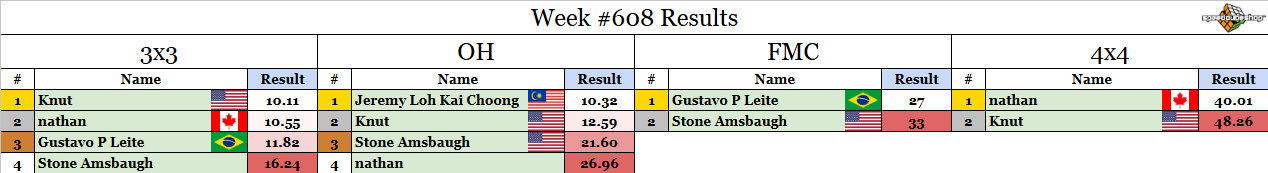
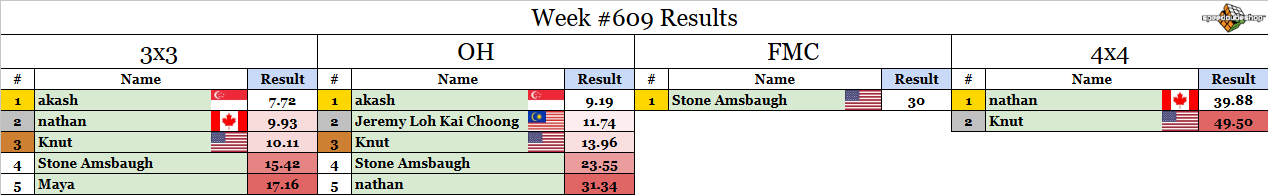
weekly comp update

diff --git a/src/weeklycomp/post.md b/src/weeklycomp/post.md
@@ -1,10 +1,10 @@
-## Weekly Competition #609 
+## Weekly Competition #610 
  
 Sponsored by SpeedCubeShop
 Shop here: [speedcubeshop.com/rouxcomp](https://speedcubeshop.com/rouxcomp)
 Use code ROUX for 5% off
 
-One competitor will be selected at random to receive a $5 SCS gift card! Congrats to last week's winner by a random draw: **Stone Amsbaugh**. DM me for the prize. 
+One competitor will be selected at random to receive a $5 SCS gift card! Congrats to last week's winner by a random draw: **nathan**. DM me for the prize. 
  
 Check whether or not you participated this week yet at [https://bit.ly/RMSWeeklyCompSummary](https://bit.ly/RMSWeeklyCompSummary)  
  
@@ -18,29 +18,29 @@ Check whether or not you participated this week yet at [https://bit.ly/RMSWeekly
  7. The comp runs until Sunday 5pm Eastern time (more or less). Enter your times using the forms links below. 
  
 ### 3x3: [Submission Form](https://forms.gle/H5xoCWvGKnZ92fQt8) 
- 1. U' L' U2 L2 B D2 F U2 F D2 R2 D2 F' L B D U2 B U2 R2 
- 2. B2 D' R2 F2 L' F2 L D2 R B2 R' U2 F2 U R2 F' R2 F' L2 B 
- 3. B R L2 U' L U' F2 D' R' U2 B' U2 D2 R2 D2 F' L2 D2 F B L 
- 4. U F2 D2 B L2 B' U2 R2 F2 U2 F' L2 R B' F' D L2 U' F L D2 
- 5. U' L2 F2 D' R2 F2 U2 L2 U L2 F2 U R F' D2 L F L B' U F 
+ 1. D L2 U' L2 F2 L2 R2 U B2 D' B2 R D2 L' B' L' B' U' B U' R2 
+ 2. L2 D2 B2 R2 B2 L2 R2 U' R2 U2 F L' B2 U' F D' F2 R D' U 
+ 3. U R2 B2 D' L2 U2 F2 L2 F2 L2 D' B U' L' F2 R2 F' L2 D' B R' 
+ 4. B2 L2 D' U' L2 U' R2 B2 D B2 L D' L2 B2 L' D2 L F D 
+ 5. F2 B' L2 F2 U2 D' F2 U R' D2 F' U2 F' R2 B U2 B' L2 B2 D2 
  
 ### OH: [Submission Form](https://forms.gle/UgRLW3K1d5KkMGfM9) 
- 1. F2 U2 F2 D2 L' D2 L2 D2 B2 L D2 R F R' U' B2 D' L' D' R D' 
- 2. R F2 D2 U2 L' D2 L B2 D2 R2 U2 R' B' R' D' F' L B' U' L2 D' 
- 3. L2 R2 U2 B L2 F2 D2 B' U2 L2 B L' D2 R' U F' R2 F' L' F2 U2 
- 4. D' R' D2 B' R2 F' R F U L2 D2 F B2 R2 F' L2 U2 B2 D2 B' U2 
- 5. L' B2 R' B2 U2 R F2 U2 R' B2 L' B R D' L' U L' R2 U2 B 
+ 1. U B' R2 F2 U' L2 R2 D U2 B2 D' B2 R2 D R' D' L2 R B' U2 R 
+ 2. L' U2 L2 F2 L2 F' D2 B' U2 L2 U2 D R' U L B U' R2 
+ 3. U2 F2 R2 U2 F U2 F U2 F' U2 F' L2 U B2 L' D2 F R' B' F' R 
+ 4. B2 R' F2 D2 L U2 L' B2 U2 R U2 L2 D R U2 F' D B U' F U 
+ 5. D F2 U2 D F' R U D2 F U2 F' R2 B R2 D2 F D2 F' R U2 
  
 ### FMC: [Submission Form](https://forms.gle/1P9VUgZmA1pibwvL9) 
- 1. R' U' F B2 D2 B' D2 L2 F2 L2 F2 R2 U2 F D R2 B2 L F' D R U' B' R' U' F 
+ 1. R' U' F B2 R' D R2 U B' R F' R' U2 L2 B' U2 F2 D2 B D2 F' D2 R2 F R' U' F 
  
 ### 4x4: [Submission Form](https://forms.gle/bHNjncvEcPvFWBP2A) 
- 1. D' F D2 L2 B2 U2 R2 F2 R F2 B2 R2 U2 D' F2 U' D2 R' F' R Fw2 Rw2 Uw2 F L' Uw2 L2 F' B2 R2 Fw2 L Rw2 Uw B R U' B Fw Uw' Fw U' B' Fw' R L' 
- 2. B2 L F' U F2 D B2 R' U L' F2 U2 F2 L U2 F2 L D2 B2 R2 D2 Uw2 B' Rw2 F' R2 D' F R2 D' F Uw2 Fw2 Rw B2 L' D' Rw' D Rw B' L' Fw R Uw L Uw2 
- 3. U' F U2 F2 U' F2 L2 B2 R2 B2 U' L2 D2 B2 R' U' R2 L' U' R' L2 Rw2 F Fw2 Uw2 B2 R F D2 R' Uw2 L2 B Fw2 Uw R Fw2 L' U Rw D Fw U Fw2 Rw' D' 
- 4. U' D2 R2 D' L2 F2 L2 D2 L2 D' R' D' R2 B L' F D' R2 F R' Rw2 Uw2 L D' Rw2 D' L' D2 R' B2 R2 Rw2 Fw' R' D' L F2 U' Rw D2 Uw' L2 Rw2 U' R 
- 5. D' B2 R2 L' F B' R D' R U2 F2 D2 B2 R2 U R2 D' R2 D2 F2 L2 Fw2 R' F2 R' Uw2 R' Uw2 R B' U Uw2 F2 Uw' B' U' R' Uw Rw' F2 Uw F' L' B' Rw 
+ 1. U' B2 U F2 L2 B2 L2 D L2 D' B2 R' B' D' B' L' U2 F' U' R2 Rw2 B2 Rw2 Fw2 D2 B U F2 Rw2 B R2 U' F Rw' F2 B Uw2 R2 U F' Uw Fw R2 B Rw' 
+ 2. F D B U2 R' L2 D2 B2 L U2 R' B2 R2 U' F' L2 F' U' R D Fw2 U' R' Fw2 U R' D2 Uw2 L' Uw2 Rw2 Fw2 L' Fw' U2 B R2 Uw2 Fw Rw Uw Rw2 B Rw' U' R 
+ 3. B' U2 R' L2 B2 L2 F2 U2 L2 F2 U F2 D' F L2 B R' L U F Uw2 R' D' Rw2 U' L Fw2 R L' Fw2 U2 D' Rw2 Fw U L2 B2 Uw Rw' U' Fw2 Rw2 F' Uw' B' 
+ 4. U2 D L2 F L' D2 R2 U' R' D R2 L2 F2 D2 F2 B2 D' F2 U' Uw2 Fw2 U R D Fw2 U' Fw2 L2 U D2 F Fw' R2 U2 B L Rw' Uw R2 Uw2 F' R2 Rw 
+ 5. B' U2 F D L2 D2 B2 D' L D R2 U R2 D2 R2 F2 R2 F2 D F2 L2 Fw2 L B' Fw2 L' F' R2 Uw2 R B' Fw2 L2 F' Uw' F R2 D' F L' Fw R Uw' F' Fw Rw' Fw2 
  
 ### Winning FMC solutions from last week: 
- 1. Gustavo P Leite, 27 moves: [SOLUTION](https://bit.ly/4zKaTL1) 
- 2. Stone Amsbaugh, 33 moves: [SOLUTION](https://bit.ly/4z4lPBZ)
+ 1. Stone Amsbaugh, 30 moves: [SOLUTION](https://bit.ly/48lcgnw)
+ 
